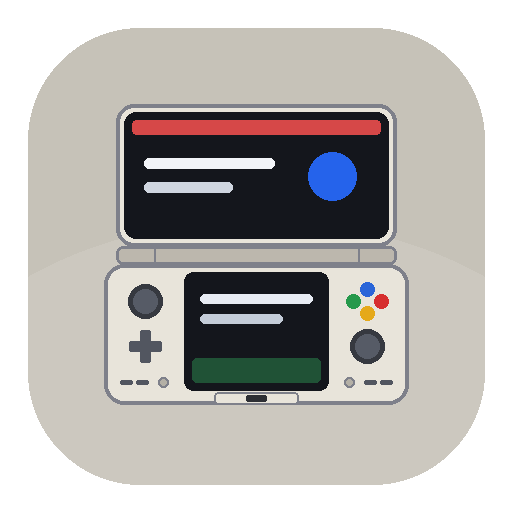
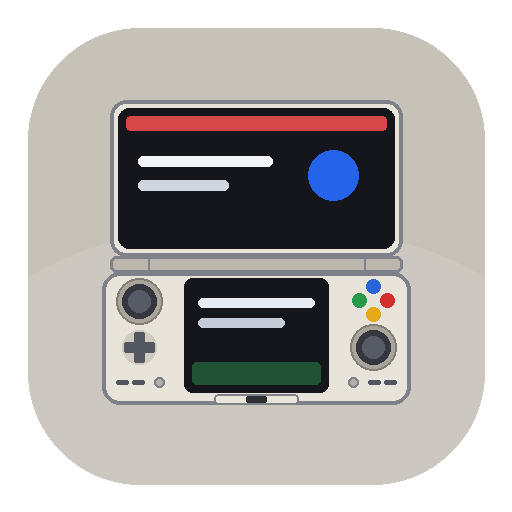
docs: update app_icon.png to match true-scale Thor proportions and recessed stick dish

diff --git a/README.md b/README.md
@@ -1,5 +1,5 @@
 <p align="center">
-  <img src="docs/app_icon.png?v=2" alt="DualScreenBrowser Icon" width="128" />
+  <img src="docs/app_icon.png?v=3" alt="DualScreenBrowser Icon" width="128" />
 </p>
 
 # DualScreenBrowser（AYN Thor 雙螢幕掌機瀏覽器）
